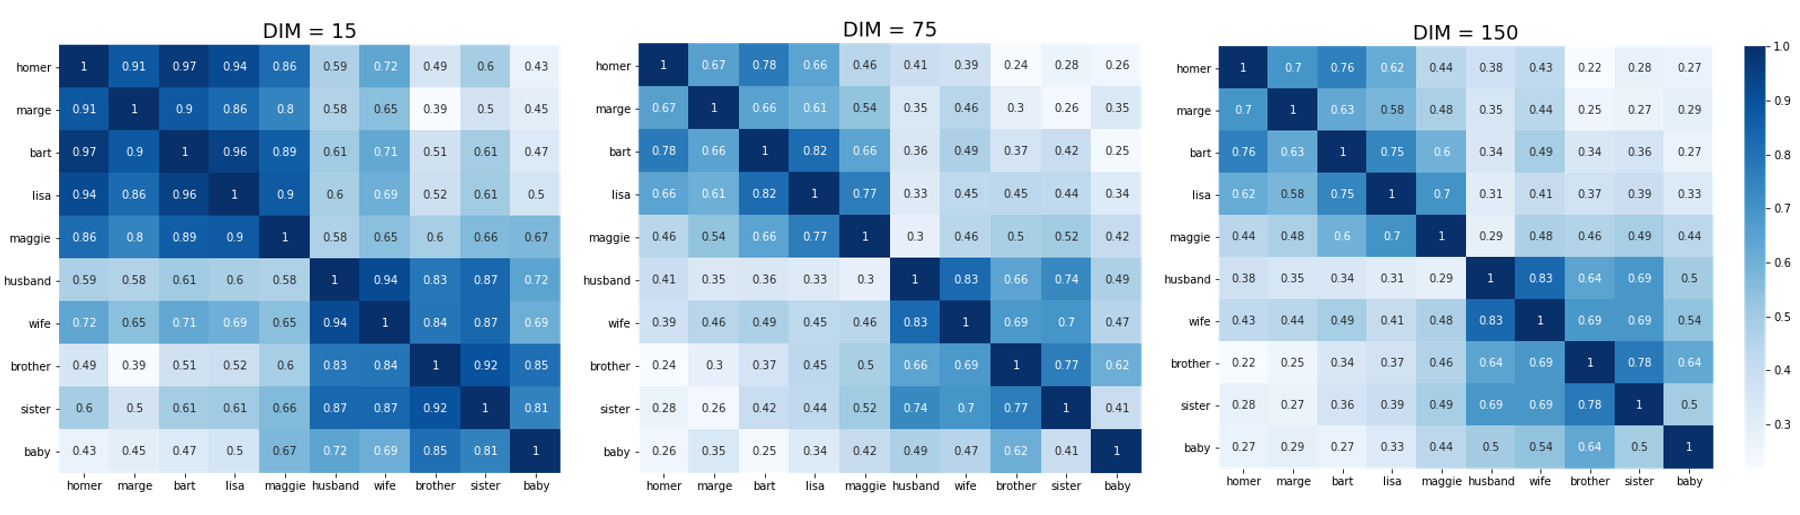
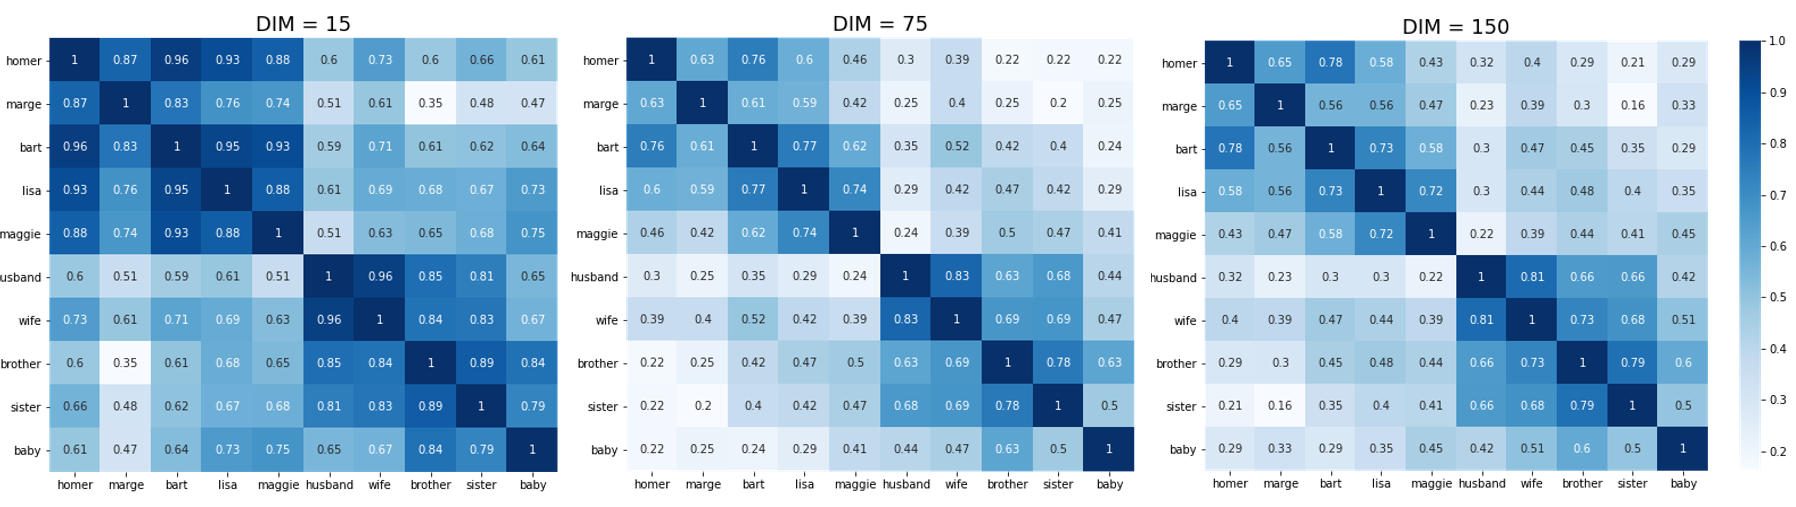
Updated embeddings section in doc

diff --git a/doc/embeddings.tex b/doc/embeddings.tex
@@ -1,26 +1,50 @@
 \section{\textit{Embeddings}}
 
-El primer enfoque que se le dio a este problema de clasificación consistió en construir los \textit{embeddings} (representaciones vectoriales de las palabras) con un modelo de Word2Vec. Este modelo utiliza una red neuronal para aprender las asociaciones de palabras a partir de un corpus de documentos o sentencias. \\
+El primer enfoque con el que se abordó el problema de clasificación propuesto para este taller consistió en construir los \textit{embeddings} (representaciones vectoriales de las palabras) con un modelo de Word2Vec. Este modelo utiliza una red neuronal para aprender las asociaciones de palabras a partir de un corpus de documentos o sentencias. Esto lo hace tratando de resolver la tarea de predecir la probabilidad de una palabra a partir de sus vecinos, el objetivo como tal no es resolver la tarea, sino aprender los pesos de la red, los cuales se convertirán en los vectores. \\
 
-Para esto se utilizó la implementación de Word2Vec de la librería de \texttt{gensim}. A continuación se explican algunos de los parámetros clave del modelo y los valores que se definieron para los mismos para este trabajo:
+Para esto se utilizó la implementación de Word2Vec de la librería de \texttt{gensim}. A continuación se explican algunos de los parámetros clave para el entrenamiento del modelo y los valores que se definieron:
 
 \begin{itemize}
-    \item Tamaño del Embedding (\textit{embedding\_size}): La dimensionalidad del vector resultante como represesntación de cada uno de los términos. Se decidió tratar con 3 tipos de tamaños: pequeño (dim=15), mediano (dim=75) y grande (dim=150).
+    \item Tamaño del Embedding (\textit{embedding\_size}): La dimensionalidad del vector resultante como represesntación de cada uno de los términos. Se decidió realizar pruebas con 3 tipos de tamaños: pequeño (dim=15), mediano (dim=75) y grande (dim=150).
     
-    \item Window: Ventana de tamaño que utiliza el modelo para considerar las palabras similares entre sí. En este caso se experimento con varios tamaños desde 1 hasta 10 y los mejores resultados se obtuvieron entre 2 y 3. Es decir, el modelo considera 2-3 palabras antes y despues de la palabra en cuestión como palabras similares.
+    \item Window: Ventana de tamaño que utiliza el modelo para considerar las palabras similares entre sí. En este caso se experimento con varios tamaños desde 1 hasta 10. Los mejores resultados para este parámetro se obtuvieron entre 2 y 3. Es decir, el modelo tiene en cuenta 2-3 palabras antes y 2-3 palabras después de la palabra que se trata de predecir.
     
-    \item Min Count: Frecuencia mínima que debe tener una palabra para considerarla dentro del modelo, esto elimina términos extraños y muy poco frecuentes. Se definió en 10, lo que redujo considerablemente el tamaño del vocabulario.
+    \item Min Count: Frecuencia mínima que debe tener una palabra para considerarla dentro del modelo, esto elimina términos extraños y muy poco frecuentes (puede ayudar con el sobreajuste u \textit{overffiting}). Se definió en 10, lo que redujo considerablemente el tamaño del vocabulario.
     
-    \item SG: Si utilizar un modelo de \textit{skipgram} o \textit{cbow}. 
+    \begin{figure}[H]
+        \centering
+        \includegraphics[scale=0.72]{doc/images/cbow_skipgram.png}
+        \caption{Representación gráfica de los modelos de \textit{cbow} y \textit{skipgram}}
+        \label{fig:cbow_skipgram}
+    \end{figure}
     
-    \item Negative: El número de palabras utilizado como ejemplo negativo al momento de entrenar el modelo. 
+    \item SG: Si utilizar un modelo de \textit{skipgram} o \textit{cbow}. Dos formas de implementar la tarea de predicción con la que se construyen los \textit{embeddings} (véase figura \ref{fig:cbow_skipgram}). La primera usa la representación de la palabra de entrada para predecir el contexto y la segunda utiliza la representación del contexto para predecir la palabra. Para esta tarea se utilizó el modelo \textit{cbow.}
+    
+    \item Negative: El número de palabras (seleccionadas al azar o \textit{sampled}) utilizadas como ejemplo negativo al momento de entrenar el modelo.
+    
 \end{itemize}
 
 \subsection{2D Plots}
 
-Dado el tamaño de los \textit{embeddings} (15, 75 y 150), se utiliza una técnica de reducción de dimensionalidad para poder visualizar algunos de los términos (vectores) interesantes y sus relaciones en un plano 2D. En este caso, se decidió utilizar la técnica de Análisis de Componentes Principales (o PCA por sus siglas en inglés). Esta técnica...
+Dado el tamaño de los \textit{embeddings} (15, 75 y 150), se utiliza una técnica de reducción de dimensionalidad para poder visualizar algunos de los términos (vectores) interesantes y sus relaciones en un plano 2D. En este caso, se decidió utilizar la técnica de Análisis de Componentes Principales (o PCA por sus siglas en inglés). Esta técnica hace una transformación lineal de los datos y los proyecta sobre un nuevo eje coordenado, buscando preservar la mayor varianza (información explicativa del vector) en cada uno de sus ejes. De aquí su nombre de Componentes Principales, pues se trabaja con las bases (componentes) que contiene la mayor variabilidad de los datos (principales). \\
+
+Así las cosas, a continuación se presentan los personajes principales de cada una de las series y las palabras más similares a estos (a nivel vectorial) proyectados en un plano 2D.
 
 \subsubsection{Simpsons Dataset}
+
+En la figura \ref{fig:simpsons_sim_words} se puede observar que sin importar el tamaño del \textit{embedding}, todos los modelos de Word2Vec muestran una alta similitud entre los personajes principales. Esto pues en todos los casos se observa que las palabras más similares siempre incluyen a los otros personajes principales. Esto tiene sentido, pues teniendo en cuenta el funcionamiento de Word2Vec y que el \textit{dataset} con el que se está trabajando corresponde a las líneas de dialogo, las palabras más similares serán aquellas que acompañen comúnmente a la palabra del personaje. \\
+
+Ahora bien, dado que es recurrente que los personajes principales estén juntos, es común que se refieran a varios de ellos en la misma frase. No obstante, hay algunas relaciones interesantes que vale la pena mencionar: 
+
+\begin{itemize}
+    \item El carácter \textit{j}, asociado al segundo nombre de Homero (Homer J. Simpson) para los embeddings de tamaño 75 y 150.
+    
+    \item Personajes como Nelson y Milhouse similares a Lisa y Bart.
+    
+    \item Términos cariñosos como \textit{honey}, \textit{sweetie} y \textit{homie} especialmente relacionados con Marge y Lisa.
+    
+    \item Términos como papá, mamá e hijo (\textit{dad, mom, son}) cercanos a varios de los personajes.
+\end{itemize}
 
 \begin{figure}[H]
 
@@ -44,6 +68,16 @@ Dado el tamaño de los \textit{embeddings} (15, 75 y 150), se utiliza una técni
 
 \subsubsection{Friends Dataset}
 
+Similar a los \textit{embeddings} del \textit{dataset} de los Simpsons se obtiene que los términos más similares a los personajes, son los otros personajes. No obstante, también se encuentran algunas relaciones interesantes:
+
+\begin{itemize}
+    \item Aparecen otros personajes como Gunther y Janice,
+    
+    \item Emma (la hija de Rachel y Ross) suele estar siempre relacionada a estos dos personajes.
+    
+    \item Pronombres masculinos como \textit{him}, relacionados sobretodo con los hombres.
+\end{itemize}
+
 \begin{figure}[H]
 
 \centering
@@ -65,7 +99,7 @@ Dado el tamaño de los \textit{embeddings} (15, 75 y 150), se utiliza una técni
 
 \subsection{Relaciones interesantes}
 
-Finalmente, una de características principales y bastante interesantes de los \textit{embeddings} es que logran capturar la relación semántica de las palabras en un espacio vectorial. Razón por la cual los términos se pueden operar y se pueden encontrar algunas relaciones bastante interesantes. A partir de los modelos de word2vec construidos en esta sección se indagaron en algunas de las relaciones que surgieron en tres niveles diferentes:
+Finalmente, una de características principales y bastante interesantes de los \textit{embeddings} es que logran capturar la relación semántica de las palabras en un espacio vectorial. Razón por la cual los términos se pueden operar y se pueden encontrar algunas relaciones bastante interesantes. A partir de los modelos de word2vec, construidos en esta sección, se realizaron y analizaron algunas de las relaciones que surgieron en tres niveles diferentes:
 
 \begin{itemize}
     \item \textbf{Similaridad:} ¿Qué tan similares eran dos palabras?
@@ -77,19 +111,29 @@ Finalmente, una de características principales y bastante interesantes de los \
 
 \subsubsection{Simpsons Dataset}
 
+Para evaluar de mejor manera las similitudes se construyó una matriz para cada uno de los tamaños de los \textit{embeddings}, en donde se evalúa la similitud de varias palabras, entre ellas los personajes principales (véase figura \ref{fig:simpsons_sim_matrix}). En esta se observa que los personajes principales tienen una alta similaridad entre sí, al igual que palabras como esposo y esposa (\textit{husband} y \textit{wife}) y hermano, hermana y bebé (\textit{brother, sister} y \textit{baby}). Esto tiene sentido dada la relación semántica de las palabras, unas son personas de una misma familia y las otras son palabras genéricas que describen esa posición dentro de la familia. 
+
 \begin{figure}[H]
     \centering
     \includegraphics[width=\textwidth]{doc/images/simpsons_sim_matrix.png}
-    \caption{Caption}
+    \caption{Matriz de similitud entre algunos términos relevantes del \textit{dataset} de los Simpsons.}
     \label{fig:simpsons_sim_matrix}
 \end{figure}
 
+Adicionalmente, se puede observar algunas relaciones de similitudes entre los personajes principales: Homero es más cercano a Bart, Bart es más cercano a Lisa, mientras que Marge tiene una similitud bastante igual con todos los personajes. Esto concuerda de alguna manera con el hecho de que las aventuras e historias de los personajes tienden a tener estas parejas de protagonistas en sus episodios.  \\
+
+Otra punto importante a destacar es el hecho de que para una mayor dimensionalidad de \textit{embedding} la similitud entre terminos disminuye considerablemente (tendencia que también se ve en el \textit{dataset} de Friends). Casi pareciera que los términos \textit{bart} y \textit{homer} son intercambiables en el \textit{embedding} de 15, mientras que su relación es mucho menor en las otras dos dimensiones de \textit{embedding}. \\
+
+Por su parte, al momento de evaluar las analogías, las relaciones de los embeddings presentaron resultados bastante sensatos como que: \textit{sister} es a \textit{lisa} como \textit{\textbf{brother}} es a \textit{bart} y que \textit{husband} es a \textit{homer} como \textit{\textbf{wife}} es a \textit{marge} (la palabra en negrilla fue predicha por el modelo). Asimismo, al momento de evaluar que termino no coincidía (o era el menos similar) los resultados concordaron con las relaciones que tienen los personajes dentro de la serie. Las comparaciones completas se pueden evidenciar en el cuaderno \texttt{HW03\_Embeddings.ipynb}.
+
 \subsubsection{Friends Dataset}
+
+De forma análoga, para el \textit{dataset} de Friends, la figura \ref{fig:friends_sim_matrix} presenta las similitudes entre todos los personajes principales de la serie y algunas otras palabras relevantes. En esta se observa nuevamente que las similitudes más fuertes están en 
 
 \begin{figure}[H]
     \centering
     \includegraphics[width=\textwidth]{doc/images/friends_sim_matrix.png}
-    \caption{Caption}
+    \caption{Matriz de similitud entre algunos términos relevantes del \textit{dataset} de Friends.}
     \label{fig:friends_sim_matrix}
 \end{figure}
 
